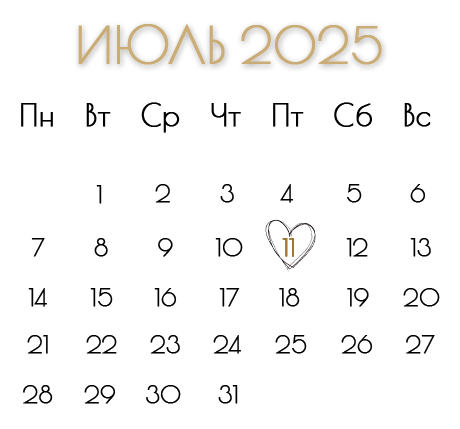
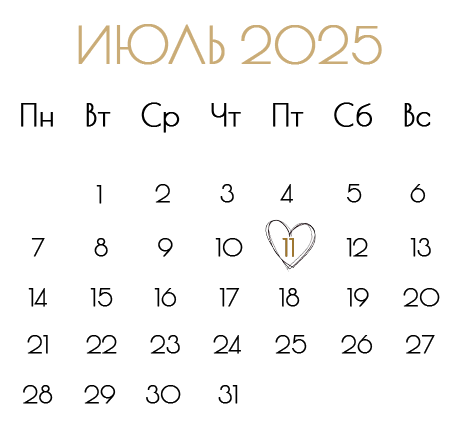
новая версия 26

diff --git a/styles.css b/styles.css
@@ -148,9 +148,6 @@ h1, h2 {
   font-family: "Poiret One", cursive; /* Акцентный шрифт Poiret One */
   color: #caac77;
   font-size: 36px;
-  text-shadow: 
-    2px 2px 5px rgba(0, 0, 0, 0.2),
-    -1px -1px 5px rgba(255, 255, 255, 0.5);
 }
 
 /* Кнопки с шрифтом Marck Script */
@@ -469,7 +466,7 @@ input[type="radio"]:hover + label {
     max-width: 100%; /* Адаптивность */
     height: auto; /* Сохраняем пропорции */
     margin: 0px; /* Настройте по необходимости */
-    transform: scale(0.8); /* Уменьшает изображение до 50% от исходного размера */
+    transform: scale(0.5); /* Уменьшает изображение до 50% от исходного размера */
   }
 }
 
